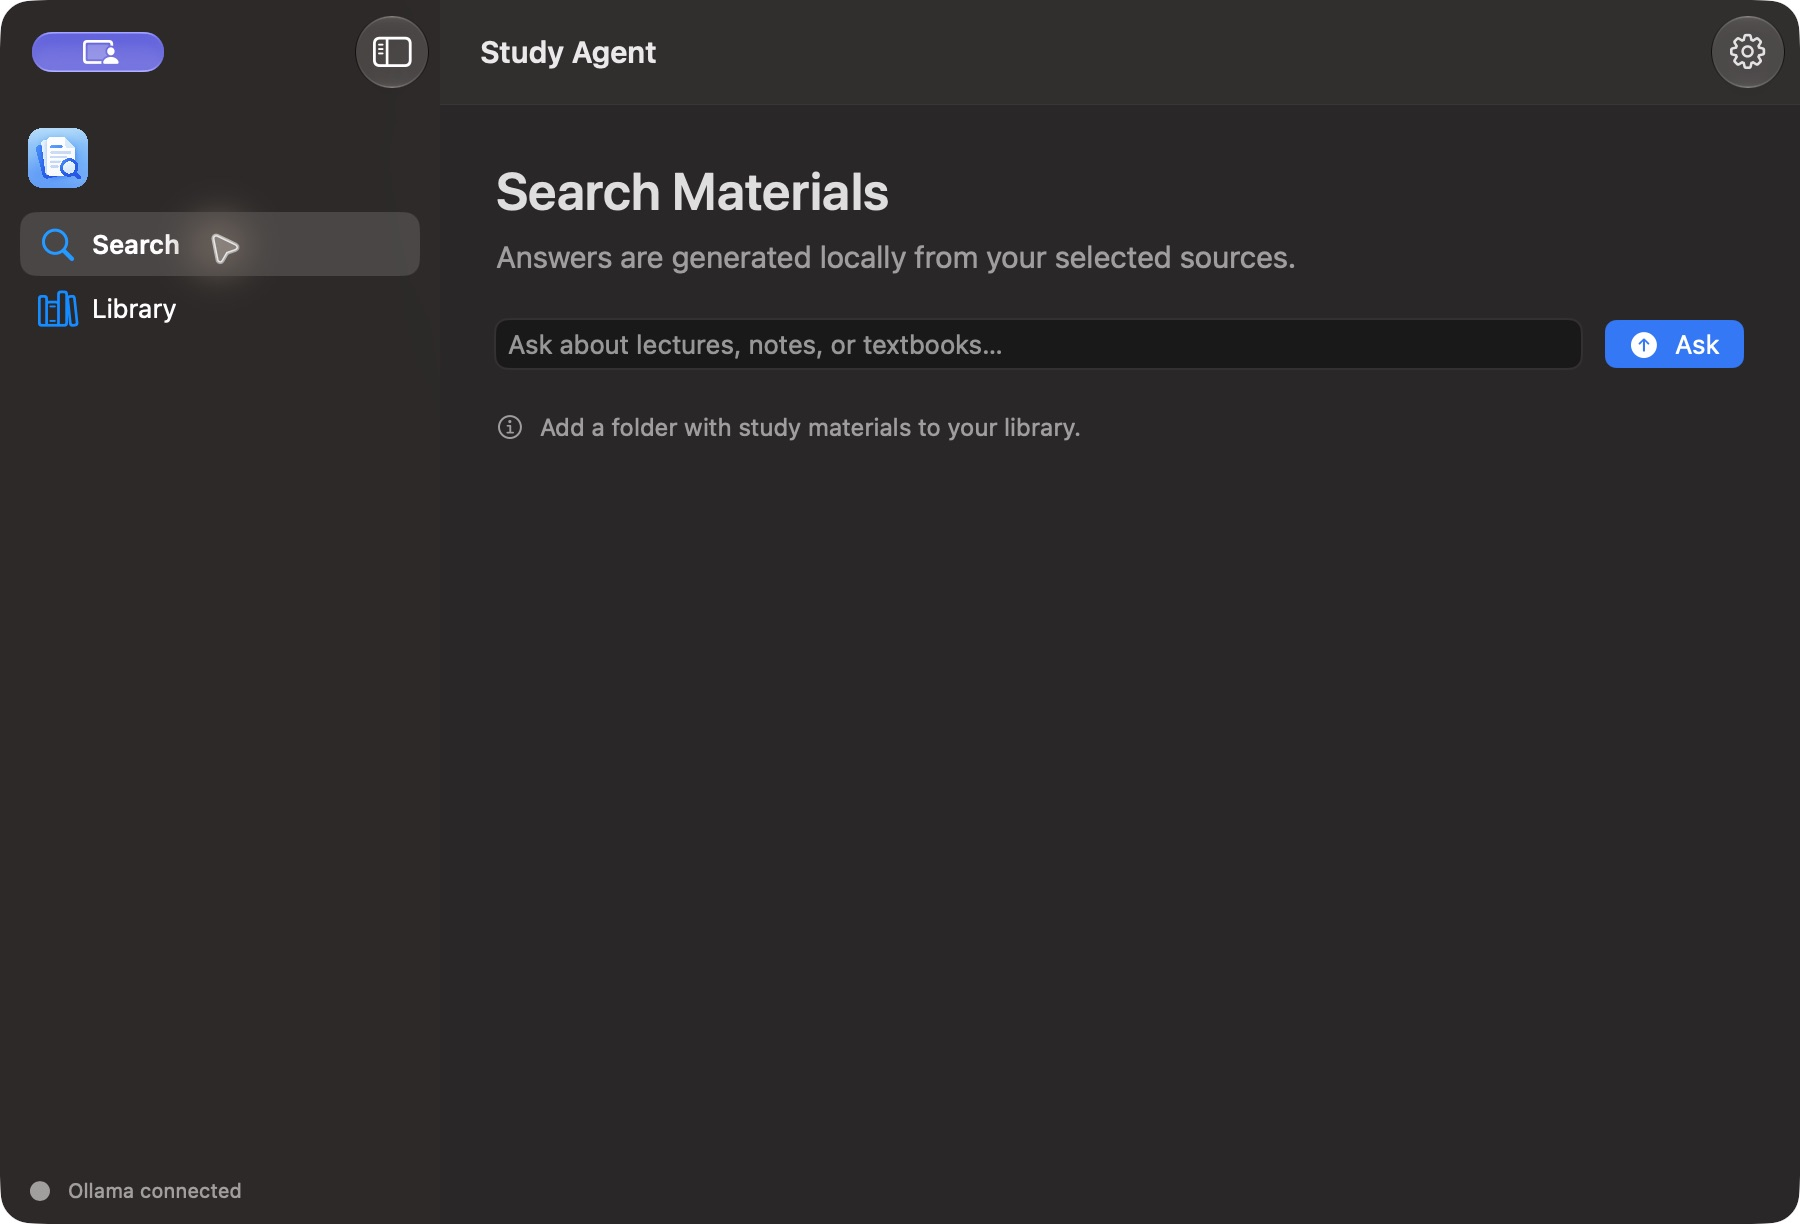
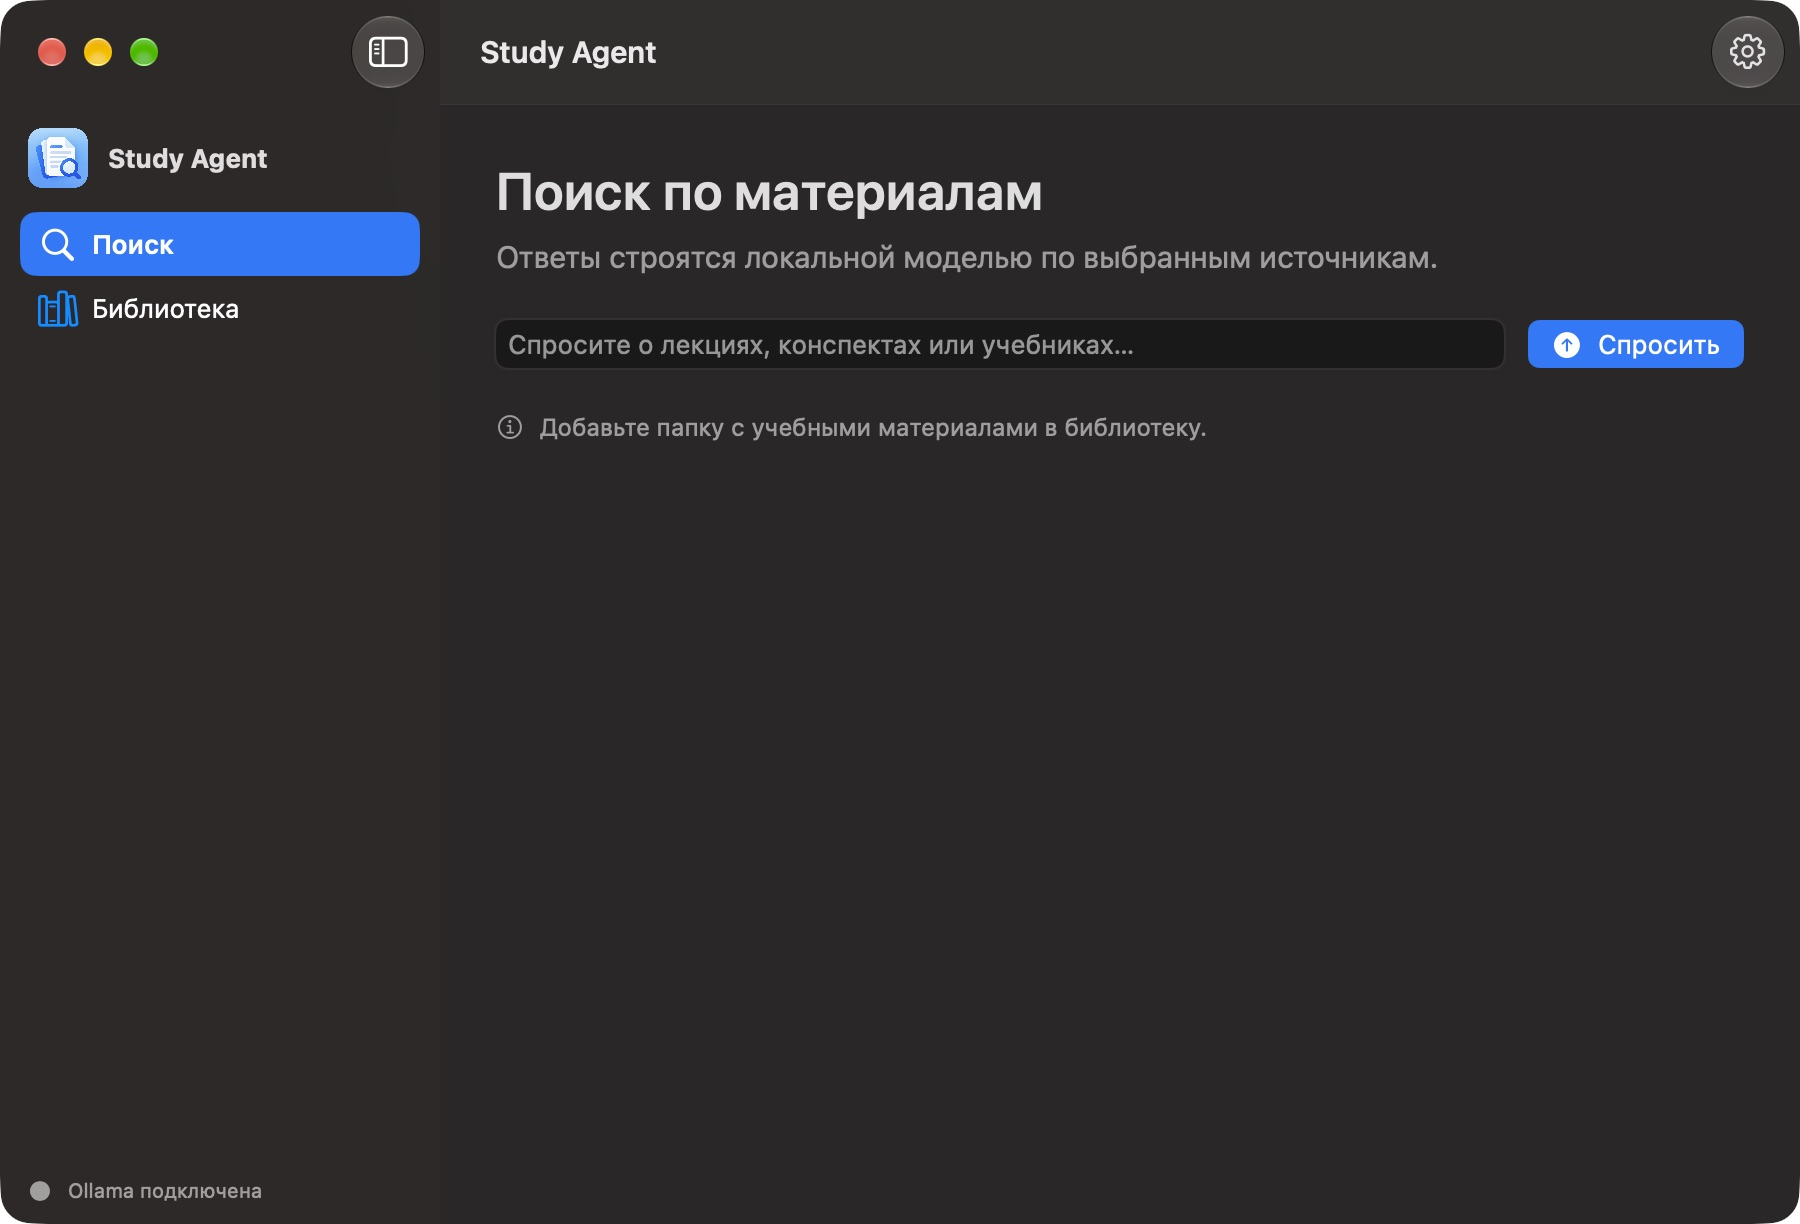
fix(macOS): show app name in sidebar header

diff --git a/macOS/StudyAgent/ContentView.swift b/macOS/StudyAgent/ContentView.swift
@@ -26,14 +26,18 @@ struct ContentView: View {
             .listStyle(.sidebar)
             .safeAreaInset(edge: .top, spacing: 0) {
                 if let logo = Self.sidebarLogo {
-                    Image(nsImage: logo)
-                        .resizable()
-                        .aspectRatio(contentMode: .fit)
-                        .frame(width: 30, height: 30)
-                        .accessibilityLabel("Study Agent")
-                        .frame(maxWidth: .infinity, alignment: .leading)
-                        .padding(.horizontal, 14)
-                        .padding(.vertical, 12)
+                    HStack(spacing: 10) {
+                        Image(nsImage: logo)
+                            .resizable()
+                            .aspectRatio(contentMode: .fit)
+                            .frame(width: 30, height: 30)
+                            .accessibilityHidden(true)
+                        Text("Study Agent")
+                            .font(.headline)
+                    }
+                    .frame(maxWidth: .infinity, alignment: .leading)
+                    .padding(.horizontal, 14)
+                    .padding(.vertical, 12)
                 }
             }
             .safeAreaInset(edge: .bottom, spacing: 0) {

diff --git a/wiki/design-system.md b/wiki/design-system.md
@@ -10,7 +10,7 @@
 
 Нативная оболочка использует `NavigationSplitView`, `.listStyle(.sidebar)`, `ToolbarItem`, системную Settings scene, обычные SwiftUI controls и SF Symbols. На macOS 26+ системные sidebar, title bar и toolbar получают актуальный системный материал автоматически; приложение не накладывает свой blur, `glassEffect`, фиксированную прозрачность или декор. Для macOS 14–25 остаётся тот же семантический интерфейс с материалами и поведением, доступными системной версии. Liquid Glass ограничен слоем навигации и управления; результаты, списки документов и ответы остаются обычным читаемым контентом.
 
-Настройки открываются через системную Settings scene (меню приложения, toolbar и Menu Bar Extra), а не как третий раздел главного sidebar. Sidebar содержит поиск и библиотеку, фирменную иконку без повторного названия приложения. Системная навигация отвечает за скрытие боковой панели, адаптацию ширины, accent color и состояния окна. Действие добавления папки показывается один раз в toolbar библиотеки; пустое состояние сохраняет контекстную кнопку.
+Настройки открываются через системную Settings scene (меню приложения, toolbar и Menu Bar Extra), а не как третий раздел главного sidebar. Sidebar содержит фирменную иконку с названием Study Agent и разделы поиска и библиотеки. Системная навигация отвечает за скрытие боковой панели, адаптацию ширины, accent color и состояния окна. Действие добавления папки показывается один раз в toolbar библиотеки; пустое состояние сохраняет контекстную кнопку.
 
 Настройка Reduce Motion приложения остаётся доступной и учитывает системный `accessibilityReduceMotion`. Увеличенный контраст приложения учитывает системный `colorSchemeContrast`. Материалы и нативные controls оставлены системными, чтобы Reduce Transparency, светлая/тёмная тема и активность окна могли применяться macOS. Программная сборка для macOS 14 сохраняет deployment target; Liquid Glass API, доступные только на более новых системах, здесь не требуются.
 

diff --git a/wiki/current-state.md b/wiki/current-state.md
@@ -14,7 +14,7 @@ README показывает скриншоты текущего нативног
 
 В ветке `feature/macos-liquid-glass` главная оболочка переведена с ручного `HSplitView` на `NavigationSplitView`. Проверка на macOS 27.0.1 / Xcode 27.1 подтвердила, что detail остаётся видимым, разделы Search/Library переключаются, sidebar можно скрыть штатной кнопкой, а Settings scene открывается отдельным системным окном. Прошлая проблема пустого detail в текущем окружении не повторилась; известная история зафиксирована в [отчёте QA](../artifacts/macos-liquid-glass-qa/README.md).
 
-Sidebar теперь показывает только фирменный знак и два раздела, без повторения имени приложения и встроенного Settings. Настройки открываются системно из меню, toolbar или Menu Bar Extra. Действие добавления папки осталось одним в toolbar библиотеки и в контекстной кнопке пустого состояния. Системные материалы sidebar/toolbar не переопределяются; контент использует обычные поверхности. Системные и пользовательские Reduce Motion учитываются, повышенный контраст приложения также учитывает системную настройку. Deployment target по-прежнему macOS 14. Реальные SwiftUI сравнения и границы доступностной проверки приведены в отчёте.
+Sidebar показывает фирменный знак Study Agent и два раздела, без встроенного Settings. Настройки открываются системно из меню, toolbar или Menu Bar Extra. Действие добавления папки осталось одним в toolbar библиотеки и в контекстной кнопке пустого состояния. Системные материалы sidebar/toolbar не переопределяются; контент использует обычные поверхности. Системные и пользовательские Reduce Motion учитываются, повышенный контраст приложения также учитывает системную настройку. Deployment target по-прежнему macOS 14. Реальные SwiftUI сравнения и границы доступностной проверки приведены в отчёте.
 
 ## Готово
 

diff --git a/artifacts/macos-liquid-glass-qa/README.md b/artifacts/macos-liquid-glass-qa/README.md
@@ -5,7 +5,7 @@ QA run: 2026-10-24 · Xcode 27.1 · macOS SDK 27.0 · macOS 27.0.1 arm64.
 ## Findings and changes
 
 - The old `HSplitView` assembled a sidebar manually and did not expose native split-view behavior such as the system sidebar toggle. The documented earlier `NavigationSplitView` blank-detail issue was not reproducible with this current Xcode/macOS runtime: both Search and Library rendered in the real app, and the accessibility tree contained the detail content. The main window now uses `NavigationSplitView` and a standard sidebar `List`.
-- The sidebar keeps the app mark and Ollama status, while the product name is left to the title bar. Settings are opened through the system Settings scene and no longer appear as a third sidebar destination.
+- The sidebar keeps the Study Agent app mark and visible product name, plus Ollama status. Settings are opened through the system Settings scene and no longer appear as a third sidebar destination.
 - Add Folder previously appeared in both the root toolbar and the Library toolbar. The action now appears once in the toolbar when Library is selected; the contextual empty-state action remains available.
 - Search, Library, Settings, SF Symbols and standard SwiftUI controls keep their content surfaces. No custom blur, glass overlay, gradient, or continuous decorative animation was added. On macOS 26 and later, the system supplies the material for native navigation and toolbar surfaces; on macOS 14–25 the semantic controls use the system appearance available there.
 - App Reduce Motion now also observes the macOS Reduce Motion environment value. App contrast preference now combines with the system increased-contrast environment.
@@ -26,6 +26,8 @@ The “before” captures are the real native Beta 2 README screenshots. “Afte
 | Sidebar · light | — | ![After: light sidebar](after/sidebar-light.jpg) |
 
 The search/library captures show the empty-source state; they are real UI captures, not mockups. Sidebar close-ups are crops of those captures. A minimum-window screenshot could not be retained; the minimum supported window size remains 760 × 560 points in code and the app prevents resizing below it.
+
+The dark Search and sidebar captures were refreshed after the follow-up added the visible “Study Agent” name next to the app icon. Other screenshots document the base Liquid Glass refresh and predate that branding-only adjustment.
 
 ## Apple guidance and API choices
 
